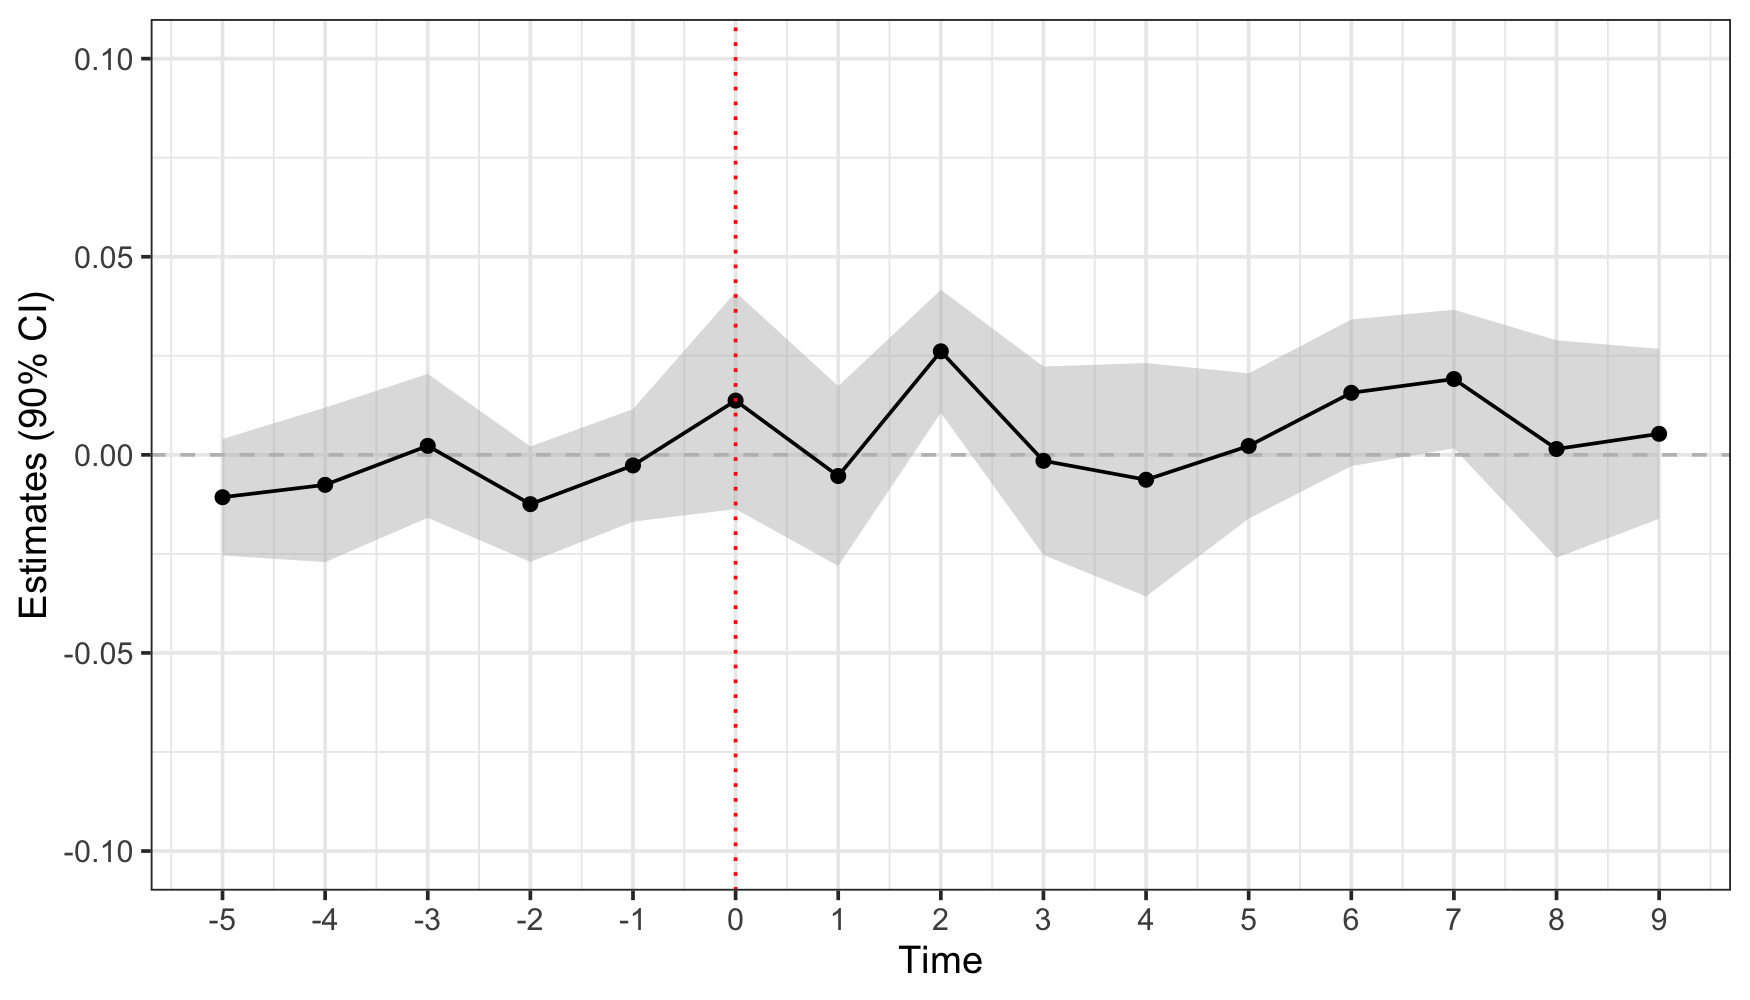
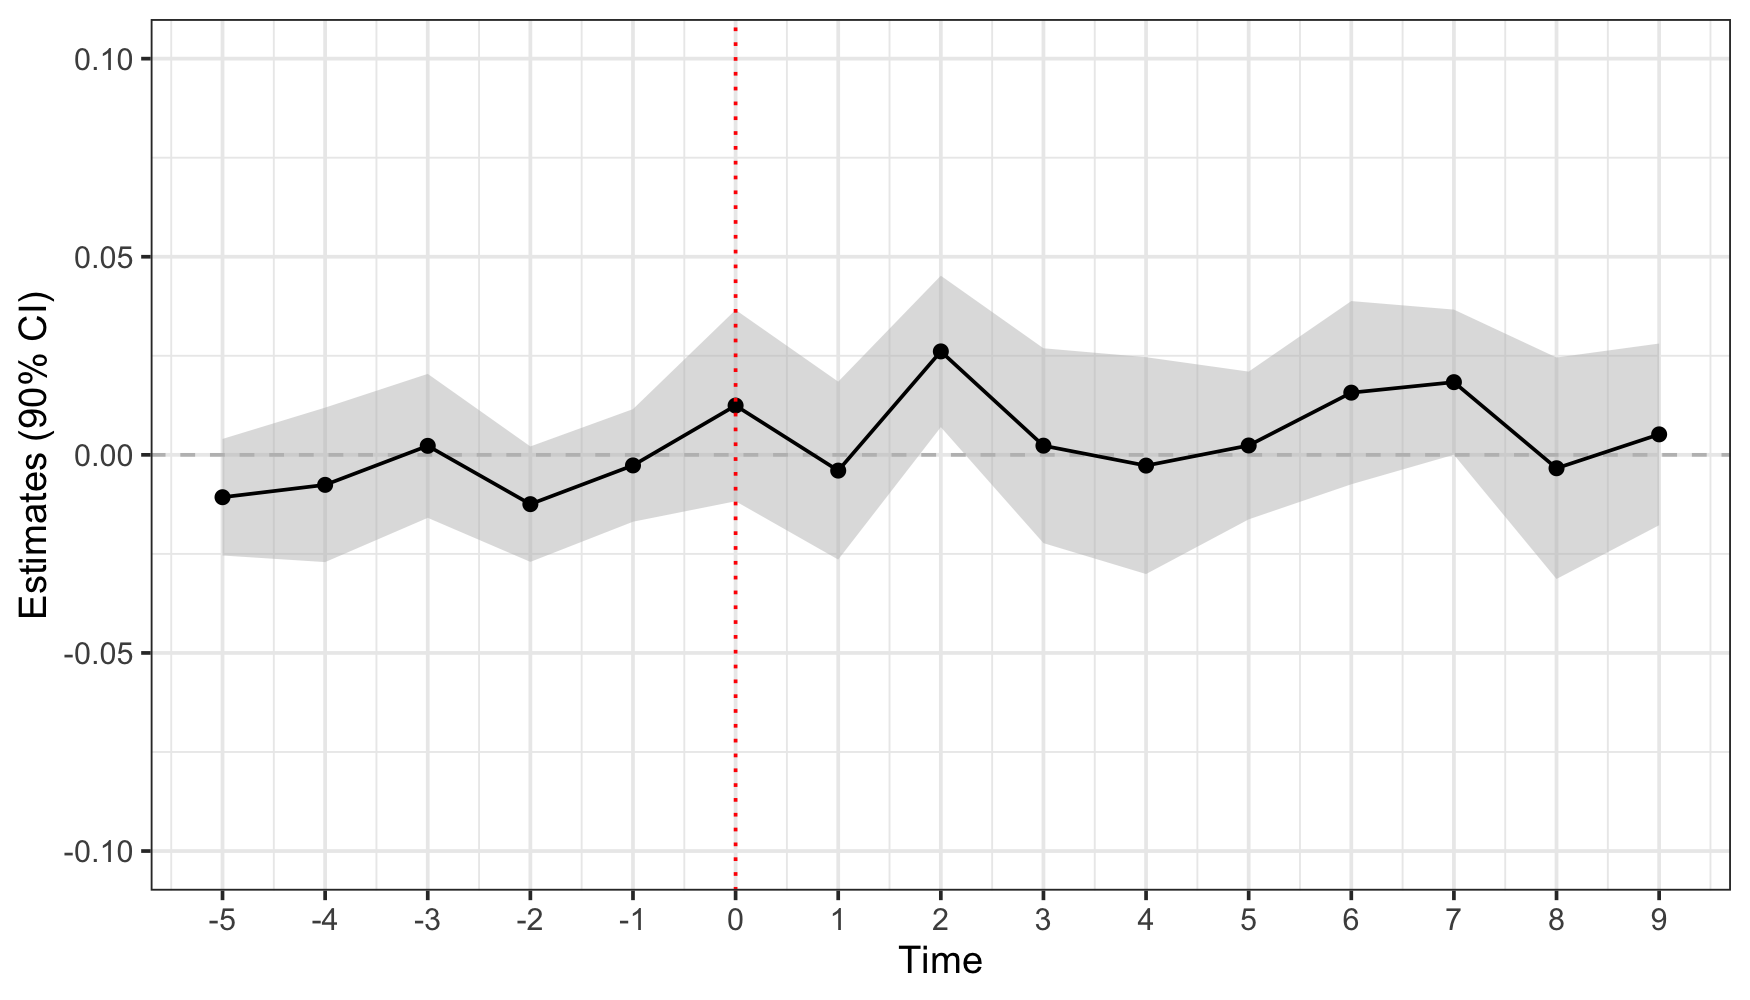
Add everything else

diff --git a/README.md b/README.md
@@ -1,6 +1,8 @@
 <p align="center">
+
     <img src="man/figures/logo.png" align="center" alt="logo" width="200" height="250"><br/><br/>
-    DIDdesign: Analyzing Difference-in-Differences Design
+    DIDdesign:Analyzing Difference-in-Differences Design
+
 </p>
 
 <!-- badges: start -->
@@ -23,7 +25,7 @@ Reference:
 ## Installation Instructions:
 
   - Downloading the most recent version of `DIDdesign` from Github
-
+    
     ``` r
     ## need to install `devtools` if necessary
     require(devtools)
@@ -143,21 +145,21 @@ plot(check_panel)
 <img src="man/figures/README-panel_check_plot-1.png" width="100%" style="display: block; margin: auto;" />
 
   - Data used to generate the above plot are available via
-
+    
     ``` r
     ## data for the trend-plot
     check_panel$plot[[1]]$dat_plot
-
+    
     ## data for the equivalence plot
     check_panel$plot[[2]]$dat_plot
     ```
 
   - Individual plots are also available via
-
+    
     ``` r
     ## trend plot
     check_panel$plot[[1]]$plot
-
+    
     ## equivalence plot
     check_panel$plot[[2]]$plot
     ```
@@ -200,13 +202,13 @@ Users can obtain the estimates via `summary()` function.
 summary(fit_panel)
 #> ── ATT Estimates ───────────────────────────────────────────────────────────────
 #>    estimator lead estimate std.error statistic p_value
-#> 1 Double-DID    0  -0.0041    0.0026      -1.6  0.1149
+#> 1 Double-DID    0  -0.0050    0.0036      -1.4  0.1584
 #> 2        DID    0  -0.0062    0.0027      -2.3  0.0194
 #> 3       sDID    0  -0.0044    0.0044      -1.0  0.3179
-#> 4 Double-DID    1  -0.0067    0.0032      -2.1  0.0370
+#> 4 Double-DID    1  -0.0071    0.0033      -2.2  0.0289
 #> 5        DID    1  -0.0115    0.0036      -3.2  0.0016
 #> 6       sDID    1  -0.0031    0.0039      -0.8  0.4260
-#> 7 Double-DID    2  -0.0051    0.0043      -1.2  0.2376
+#> 7 Double-DID    2  -0.0050    0.0043      -1.2  0.2420
 #> 8        DID    2  -0.0115    0.0049      -2.3  0.0196
 #> 9       sDID    2   0.0015    0.0049       0.3  0.7664
 ```
@@ -317,7 +319,7 @@ ff_rcs <- did(
 summary(ff_rcs)
 #> ── ATT Estimates ───────────────────────────────────────────────────────────────
 #>    estimator lead estimate std.error statistic p_value
-#> 1 Double-DID    0    0.077     0.050      1.53    0.13
+#> 1 Double-DID    0    0.063     0.069      0.91    0.36
 #> 2        DID    0    0.054     0.055      0.98    0.33
 #> 3       sDID    0    0.068     0.081      0.85    0.40
 ```
@@ -415,10 +417,10 @@ fit_sa <- did(
 head(summary(fit_sa))
 #> ── ATT Estimates ───────────────────────────────────────────────────────────────
 #>       estimator lead estimate std.error statistic p_value
-#> 1 SA-Double-DID    0   0.0137     0.017     0.823    0.41
+#> 1 SA-Double-DID    0   0.0124     0.015     0.847    0.40
 #> 2        SA-DID    0   0.0110     0.014     0.792    0.43
 #> 3       SA-sDID    0   0.0137     0.016     0.832    0.41
-#> 4 SA-Double-DID    1  -0.0053     0.014    -0.387    0.70
+#> 4 SA-Double-DID    1  -0.0040     0.014    -0.291    0.77
 #> 5        SA-DID    1   0.0011     0.013     0.084    0.93
 #> 6       SA-sDID    1  -0.0072     0.017    -0.414    0.68
 ```
